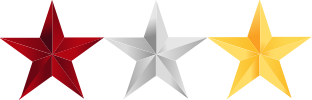
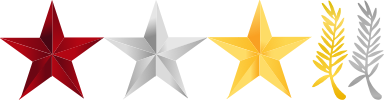
improved stars and fixed forum animation for chrome > 43

diff --git a/layout/profile.edit.layout.html b/layout/profile.edit.layout.html
@@ -25,17 +25,11 @@
 	
 	<div class="form-group">
 		<label for="etoiles" class="col-sm-2 control-label">Etoiles</label>
-		<div class="col-sm-10">
+		<div class="col-sm-8">
 			<input type="text" class="form-control" id="etoiles" name="etoiles" value="{{CUSTOM_ETOILES_PLAIN}}">
-			<div class="text-center">
-				* = dorée <span class="separator"></span>
-				+ = argenté <span class="separator"></span>
-				r = érasmus <span class="separator"></span>
-				F = fossile (dorée) <span class="separator"></span>
-				f = fossile (argenté) <span class="separator"></span>
-				E = fossile (érasmus) <span class="separator"></span>
-				b = bourgeois
-			</div>
+		</div>
+		<div class="col-sm-2">
+			<p><button type="button" class="btn btn-info" data-toggle="modal" data-target="#legend">Voir la légende</button></p>
 		</div>
 	</div>
 	
@@ -66,4 +60,114 @@
 		</div>
 	</div>
 </form>
+</div>
+
+<div class="modal fade" id="legend">
+	<div class="modal-dialog">
+	<div class="modal-content">
+		<div class="modal-header">
+			<button type="button" class="close" data-dismiss="modal">
+				<span aria-hidden="true">&times;</span><span class="sr-only">Fermer</span>
+			</button>
+			<h4 class="modal-title">Les étoiles</h4>
+		</div>
+		<div class="modal-body">
+			<table style="width: 100%; text-align: center; font-size: 150%;">
+				<thead>
+				<tr>
+					<td>Code</td>
+					<td>Etoile</td>
+					<td>Légende</td>
+				</tr>
+				</thead>
+				<tbody>
+				<tr>
+					<td>*</td>
+					<td>
+						<div class="stars">
+						<span class="doree"></span>
+						</div>
+					</td>
+					<td>Etoile dorée</td>
+				</tr>
+				<tr>
+					<td>+</td>
+					<td>
+						<div class="stars">
+						<span class="argent"></span>
+						</div>
+					</td>
+					<td>Etoile argentée</td>
+				</tr>
+				<tr>
+					<td>r</td>
+					<td>
+						<div class="stars">
+						<span class="erasmus"></span>
+						</div>
+					</td>
+					<td>Erasums</td>
+				</tr>
+				<tr>
+					<td>F</td>
+					<td>
+						<div class="stars">
+						<span class="fossile-doree"></span>
+						</div>
+					</td>
+					<td>Etoile dorée fossile</td>
+				</tr>
+				<tr>
+					<td>f</td>
+					<td>
+						<div class="stars">
+						<span class="fossile-argent"></span>
+						</div>
+					</td>
+					<td>Etoile argentée fossile</td>
+				</tr>
+				<tr>
+					<td>E</td>
+					<td>
+						<div class="stars">
+						<span class="fossile-erasmus"></span>
+						</div>
+					</td>
+					<td>Erasmus fossile</td>
+				</tr>
+				<tr>
+					<td>b</td>
+					<td>
+						<div class="stars">
+						<span class="bourgeois"></span>
+						</div>
+					</td>
+					<td>Etoile de bourgeois</td>
+				</tr>
+				<tr>
+					<td>/</td>
+					<td>
+						<div class="stars">
+						<span class="palme-doree"></span>
+						</div>
+					</td>
+					<td>Palme dorée</td>
+				</tr>
+				<tr>
+					<td>!</td>
+					<td>
+						<div class="stars">
+						<span class="palme-argent"></span>
+						</div>
+					</td>
+					<td>Palme argentée</td>
+				</tr>
+				</tbody>
+			</table>
+		</div>
+		<div class="modal-footer">
+			<button type="button" class="btn btn-default" data-dismiss="modal">Fermer</button>
+		</div>
+	</div>
+	</div>
 </div>

diff --git a/css/style.css b/css/style.css
@@ -227,28 +227,38 @@ div.stars > span {
 	width: 1.2em;
 	height: 1.2em;
 	background-image: url(../images/stars.png);
-	background-size: 3.6em 1.2em;
+	background-size: 4.56em 1.2em;
 }
 
 div.stars > .doree {
-	background-position: 1.2em 0;
+	background-position: 2.1em 0;
 }
 
 div.stars > .argent {
-	background-position: 2.4em 0;
+	background-position: 3.3em 0;
 }
 
 div.stars > .erasmus {
 	background-position: 0 0;
 }
 
+div.stars > .palme-doree {
+	background-position: 5.39em 0;
+	width: 0.40em;
+}
+
+div.stars > .palme-argent {
+	background-position: 4.98em 0;
+	width: 0.40em;
+}
+
 div.stars > .fossile-doree {
-	background-position: 1.2em 0;
+	background-position: 2.1em 0;
 	background-color: #000000;
 }
 
 div.stars > .fossile-argent {
-	background-position: 2.4em 0;
+	background-position: 3.3em 0;
 	background-color: #000000;
 }
 
@@ -257,13 +267,12 @@ div.stars > .fossile-erasmus {
 	background-color: #000000;
 }
 
-div.stars > .bougeois {
-	background-position: 0.8em 0;
-	width: 0.8em;
-	height: 0.8em;
-	background-size: 2.4em 0.8em;
+div.stars > .bourgeois {
+	background-position: 1.05em 0;
+	width: 0.6em;
+	height: 0.6em;
+	background-size: 2.3em 0.6em;
 }
-
 
 span.separator {
 	padding-right: 20px;
@@ -335,10 +344,14 @@ span.unread {
 /*
  * Highlight
  */
-li.newmessage a {
+li.newmessage {
 	-moz-animation: newmsg 2s infinite;
 	-webkit-animation: newmsg 2s infinite;
 	animation: newmsg 2s infinite;
+}
+
+li.newmessage a {
+	color: inherit !important;
 }
 
 @-webkit-keyframes newmsg {

diff --git a/includes/cbseraing.class.php b/includes/cbseraing.class.php
@@ -466,7 +466,9 @@ class cbseraing {
 			'R' => 'fossile-erasmus',
 			'F' => 'fossile-doree',
 			'f' => 'fossile-argent',
-			'b' => 'bougeois'
+			'b' => 'bourgeois',
+			'/' => 'palme-doree',
+			'!' => 'palme-argent'
 		);
 		
 		$data = array();
